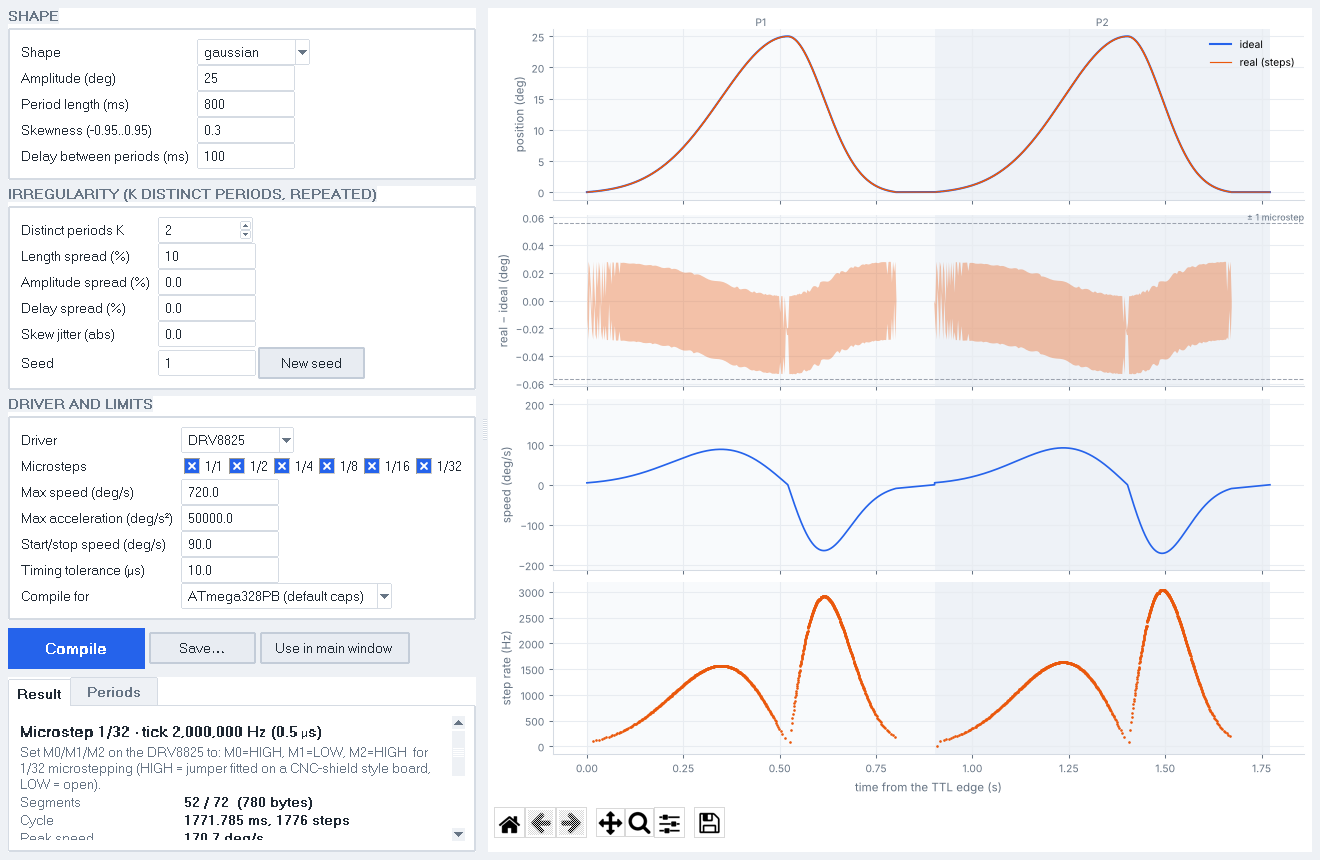
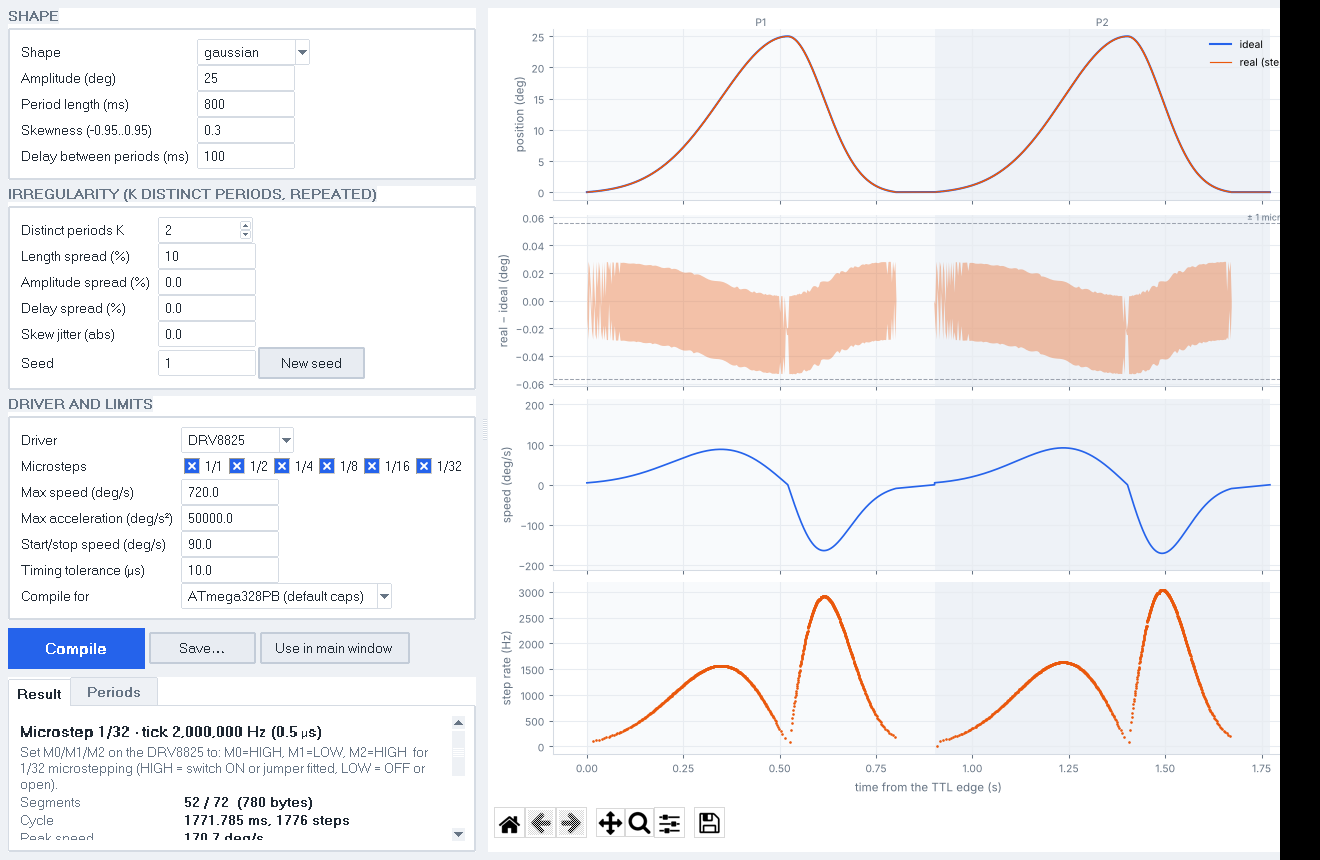
Show the microstep mode pins as a DIP switch
The main window draws the driver's mode pins as a DIP switch (knob up = ON =
HIGH) built from the driver's pin table, so it fits any driver and reads the
same for jumpers. Wording, screenshots and docs updated to match.

Claude-Session: https://claude.ai/code/session_01HkhkWbyHifHvQMi6hZ9U5B

Changed region(s): [[0.9629, 0.0, 1.0, 1.0], [0.1553, 0.8767, 0.3106, 0.907]]

diff --git a/python_serial/phantom_gui.py b/python_serial/phantom_gui.py
@@ -1,5 +1,5 @@
 """Main window: connect to the phantom controller, load/upload a compiled
-trajectory, confirm the microstep jumpers, arm/start/stop.
+trajectory, confirm the microstep mode pins, arm/start/stop.
 
     python phantom_gui.py [--port /dev/ttyUSB0 | socket://127.0.0.1:5555]
 
@@ -16,6 +16,7 @@ import threading
 import time
 import tkinter as tk
 from tkinter import filedialog, messagebox, ttk
+from tkinter import font as tkfont
 from tkinter.scrolledtext import ScrolledText
 from typing import Optional
 
@@ -117,7 +118,7 @@ class PhantomApp:
         # Right: jumpers and run control.
         side = ttk.Frame(body)
         side.grid(row=0, column=1, sticky="nsew", padx=(8, 0))
-        jf = ps.card(side, "Microstep jumpers", fill=tk.X)
+        jf = ps.card(side, "Microstep mode pins", fill=tk.X)
         row = ttk.Frame(jf, style="Card.TFrame")
         row.pack(fill=tk.X)
         ttk.Label(row, text="Driver", style="Card.TLabel").pack(side=tk.LEFT)
@@ -125,13 +126,13 @@ class PhantomApp:
         ttk.Combobox(row, textvariable=self.driver_var, values=list(pc.DRIVERS), state="readonly",
                      width=10).pack(side=tk.LEFT, padx=6)
         self.driver_var.trace_add("write", lambda *_: self._driver_changed())
-        self.jumper_canvas = tk.Canvas(jf, width=300, height=74, background=ps.SURFACE,
+        self.jumper_canvas = tk.Canvas(jf, width=300, height=88, background=ps.SURFACE,
                                        highlightthickness=0)
         self.jumper_canvas.pack(fill=tk.X, pady=(8, 2))
         self.jumper_label = ttk.Label(jf, text="", wraplength=300, justify=tk.LEFT, style="Muted.TLabel")
         self.jumper_label.pack(fill=tk.X, pady=(0, 4))
         self.jumpers_ok = tk.BooleanVar(value=False)
-        self.jumper_check = ttk.Checkbutton(jf, text="Jumpers are set as shown", variable=self.jumpers_ok,
+        self.jumper_check = ttk.Checkbutton(jf, text="Mode pins are set as shown", variable=self.jumpers_ok,
                                             command=self._refresh)
         self.jumper_check.pack(anchor="w")
 
@@ -198,23 +199,35 @@ class PhantomApp:
             self.log_text.tag_configure(tag, foreground=color)
 
     def _draw_jumpers(self, driver: str, microstep: Optional[int]) -> None:
-        """Mode pins as jumper headers: a filled block = jumper fitted (HIGH)."""
+        """Mode pins as a DIP switch: knob up = ON (HIGH), down = OFF (LOW).
+
+        Works for any driver in ``pc.DRIVERS``; a jumper header reads the same
+        way (jumper fitted = ON)."""
         c = self.jumper_canvas
         c.delete("all")
         info = pc.DRIVERS[driver]
+        pins = info["pins"]
         levels = info["table"].get(microstep) if microstep else None
-        for i, pin in enumerate(info["pins"]):
-            x = 40 + i * 90
-            c.create_text(x + 14, 10, text=pin, fill=ps.MUTED, font=("TkDefaultFont", 9, "bold"))
-            for dy in (0, 22):
-                c.create_oval(x + 8, 22 + dy, x + 20, 34 + dy, outline="#9aa5b1", width=2)
+        family = tkfont.nametofont("TkDefaultFont").actual("family")
+        slot_w, slot_h, pitch, top, x0 = 24, 40, 64, 18, 4
+        c.create_rectangle(x0, top, x0 + 34 + len(pins) * pitch, top + slot_h + 12, fill="#334155",
+                           outline="#1e293b")
+        c.create_text(x0 + 8, top + 6, text="ON", anchor="nw", fill="#e2e8f0", font=(family, 8))
+        c.create_text(x0 + 8, top + slot_h + 6, text="OFF", anchor="sw", fill="#94a3b8", font=(family, 8))
+        for i, pin in enumerate(pins):
+            x = x0 + 40 + i * pitch
+            cx = x + slot_w / 2
+            c.create_text(cx, 8, text=pin, fill=ps.TEXT, font=(family, 9, "bold"))
+            c.create_rectangle(x, top + 6, x + slot_w, top + 6 + slot_h, fill="#0f172a", outline="#475569")
             if levels is None:
+                c.create_text(cx, top + 6 + slot_h / 2, text="?", fill="#94a3b8", font=(family, 10, "bold"))
                 continue
-            if levels[i]:
-                c.create_rectangle(x + 2, 18, x + 26, 60, fill=ps.ACCENT, outline=ps.ACCENT_DARK, width=1)
-                c.create_text(x + 14, 39, text="ON", fill="#ffffff", font=("TkDefaultFont", 8, "bold"))
-            c.create_text(x + 14, 68, text="HIGH" if levels[i] else "open",
-                          fill=ps.ACCENT if levels[i] else ps.MUTED, font=("TkDefaultFont", 8))
+            on = bool(levels[i])
+            ky = top + 8 if on else top + 6 + slot_h / 2
+            c.create_rectangle(x + 2, ky, x + slot_w - 2, ky + slot_h / 2 - 2,
+                               fill=ps.ACCENT if on else "#e2e8f0", outline=ps.ACCENT_DARK if on else "#94a3b8")
+            c.create_text(cx, top + slot_h + 22, text="HIGH" if on else "LOW",
+                          fill=ps.ACCENT if on else ps.MUTED, font=(family, 8, "bold"))
 
     # -- helpers ------------------------------------------------------------
     def log(self, text: str, tag: Optional[str] = None) -> None:
@@ -512,7 +525,7 @@ class PhantomApp:
     def upload(self) -> None:
         probs = self.problems()
         if probs or not self.jumpers_ok.get():
-            messagebox.showwarning("Cannot upload", "\n".join(probs) or "Confirm the jumper settings first.",
+            messagebox.showwarning("Cannot upload", "\n".join(probs) or "Confirm the microstep mode pins first.",
                                    parent=self.root)
             return
         traj, cycles, trigger = self.traj, self._cycles(), self.trigger
@@ -558,7 +571,7 @@ class PhantomApp:
 
     def arm(self) -> None:
         if not self.jumpers_ok.get():
-            messagebox.showwarning("Jumpers", "Confirm the jumper settings first.", parent=self.root)
+            messagebox.showwarning("Mode pins", "Confirm the microstep mode pins first.", parent=self.root)
             return
         trigger, cycles = self.trigger, self._cycles()
         def done(_):

diff --git a/docs/make_figures.py b/docs/make_figures.py
@@ -265,8 +265,8 @@ def ground_truth():
 
 # Numbered callouts on the main window screenshot (pixel positions in gui_main.png,
 # which is kept from the GUI test: PHANTOM_SCREENSHOT_DIR=... pytest tests/test_gui.py).
-MAIN_CALLOUTS = [(510, 42), (1062, 70), (408, 132), (600, 172), (262, 680), (900, 180), (960, 383),
-                 (1000, 452), (1010, 592), (805, 635), (600, 767)]
+MAIN_CALLOUTS = [(510, 42), (1062, 70), (408, 132), (600, 172), (262, 678), (900, 190), (960, 381),
+                 (1000, 450), (1010, 590), (805, 633), (600, 765)]
 
 
 def annotate_main():

diff --git a/python_serial/phantom_core.py b/python_serial/phantom_core.py
@@ -100,7 +100,7 @@ def jumper_instructions(driver: str, microstep: int) -> str:
     pins = ", ".join(f"{p}={'HIGH' if v else 'LOW'}" for p, v in zip(info["pins"], levels))
     return (f"Set {'/'.join(info['pins'])} on the {driver} to: {pins}  "
             f"for 1/{microstep} microstepping "
-            f"(HIGH = jumper fitted on a CNC-shield style board, LOW = open).")
+            f"(HIGH = switch ON or jumper fitted, LOW = OFF or open).")
 
 
 # ----------------------------------------------------------------------------

diff --git a/docs/index.md b/docs/index.md
@@ -29,7 +29,7 @@ flowchart LR
   MRI["MRI scanner"] -->|"TTL: sequence start = t 0"| FW
   BTN["Button<br/>(debug: replaces the MRI)"] -.-> FW
   FW -->|"STEP / DIR"| DRV["DRV8825 / A4988"] --> MOT["Stepper"] --> PHA["Phantom"]
-  JMP["Microstep jumpers"] -.-> DRV
+  JMP["Microstep mode pins<br/>(DIP switch / jumpers)"] -.-> DRV
 ```
 
 | Part | Role | Page |
@@ -48,7 +48,7 @@ sequenceDiagram
   participant C as Controller
   participant MRI as MRI scanner
   Op->>PC: open / design trajectory
-  PC->>Op: set microstep jumpers (shown) and confirm
+  PC->>Op: set microstep mode pins (shown) and confirm
   PC->>C: upload segments (CRC checked on the device)
   PC->>C: ARM ttl ‹cycles›
   C-->>PC: OK ARM ttl  (armed, motor still)
@@ -60,7 +60,7 @@ sequenceDiagram
   PC->>Op: export ground truth CSV
 ```
 
-Before a scan, check that the jumpers are confirmed, the trigger is **MRI TTL**
+Before a scan, check that the mode pins are confirmed, the trigger is **MRI TTL**
 and the cycle count is set (0 = until Finish/STOP). After it, check that
 `EV DONE` reports `overruns=0`.
 
@@ -83,6 +83,6 @@ connect the GUI to `socket://127.0.0.1:5555`.
 | ESP32-S3 Dev Module (USB CDC on boot) | 5 | 6 | 8 | 9 | 4096 |
 
 200 steps/rev stepper with a DRV8825 or A4988 driver. The microstep is set
-with jumpers. The button connects to GND. The ESP32 TTL input is 3.3 V, so a
+with the driver's mode pins (DIP switch or jumpers). The button connects to GND. The ESP32 TTL input is 3.3 V, so a
 5 V trigger must be level-shifted. The ESP32 path passes all tests in a host
 simulation but is **not yet tested on hardware**.

diff --git a/docs/gui.md b/docs/gui.md
@@ -18,7 +18,7 @@ the ground truth. Trajectories come from the [designer](designer.md) or from a
 | 3 | **Open… / Save…** a `.phtraj`, **Designer…**, **Export ground truth…** (CSV). |
 | 4 | **Summary**: shape, periods, cycle length, microstep and tick, segments and checksum, peak speed, max errors, streaming margin, and the warnings. |
 | 5 | **Compatibility** with the connected device: protocol, tick rate, memory (or a safe streaming margin), step rate, event spacing. Upload is blocked if a check fails. |
-| 6 | **Microstep jumpers**: the mode-pin levels for the compiled microstep on the chosen driver (DRV8825: M0–M2, A4988: MS1–MS3). Upload and Arm stay disabled until you tick *Jumpers are set as shown*. Changing the driver or the trajectory clears the tick. |
+| 6 | **Microstep mode pins**: the levels of the driver's mode pins for the compiled microstep, drawn as a DIP switch (knob up = ON = HIGH). It reads the same for jumpers (fitted = HIGH) and adapts to the driver (DRV8825: M0–M2, A4988: MS1–MS3). Upload and Arm stay disabled until you tick *Mode pins are set as shown*. Changing the driver or the trajectory clears the tick. |
 | 7 | **Trigger** and **Cycles** (0 = until Finish/STOP). The debug triggers show a warning that the motion is not synchronized. |
 | 8 | **Upload** (*Fill stream buffer* for streamed trajectories), **Arm / Start**, **Finish cycle** (stops at the end of the current cycle, back at 0) and **STOP** (immediate). |
 | 9 | **Progress**: upload progress, or the stream buffer level while playing. **Status** queries the cycle, position and overruns. |

diff --git a/README.md b/README.md
@@ -20,7 +20,7 @@ The motion is therefore known to the microsecond relative to the TTL.
 |---|---|
 | [Overview](docs/index.md) | System, scan workflow, quick start, hardware |
 | [Trajectory format](docs/trajectory.md) | Shapes, step placement, the 15-byte segments, `.phtraj` files |
-| [Main window](docs/gui.md) | Connecting, jumpers, triggers, upload/arm/stop, streaming, ground truth export |
+| [Main window](docs/gui.md) | Connecting, microstep mode pins, triggers, upload/arm/stop, streaming, ground truth export |
 | [Trajectory designer](docs/designer.md) | Parameters, plots, and how microstep, tick and segments are optimized |
 | [Firmware](docs/firmware.md) | Timer player, state machine, serial protocol, streaming, timing, emulators |
 
@@ -35,7 +35,8 @@ python python_serial/phantom_gui.py
    main window**.
 2. Select the port and **Connect**. The trajectory is checked against the
    device.
-3. Set the microstep jumpers as shown and tick **Jumpers are set as shown**.
+3. Set the driver's microstep mode pins (DIP switch or jumpers) as shown and
+   tick **Mode pins are set as shown**.
 4. Keep the trigger on **MRI TTL**, set the cycles, **Upload**, **Arm / Start**,
    then start the sequence.
 5. **Export ground truth…** writes the position after every step vs the time

diff --git a/docs/designer.md b/docs/designer.md
@@ -28,7 +28,7 @@ the step placement are described in [Trajectory format](trajectory.md).
   as dashed lines.
 - **Result** tab: the chosen microstep, tick, segment count and memory,
   streaming margin, peak speed, acceleration and step rate, max timing and
-  position errors, jumper setting, warnings, and every combination the
+  position errors, mode-pin setting, warnings, and every combination the
   planner tried.
 - **Periods** tab: the generated per-period table.
 - **Save…** a `.phtraj`, or **Use in main window →**.
